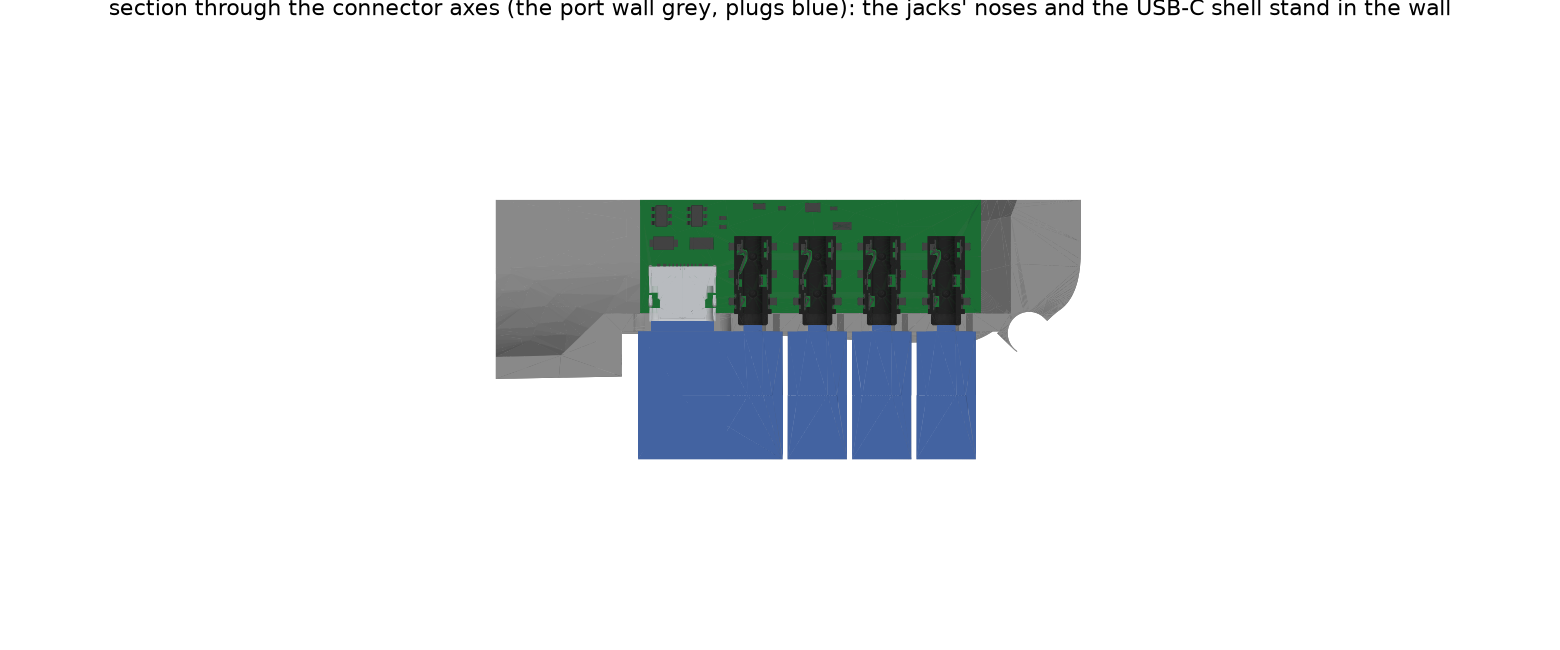
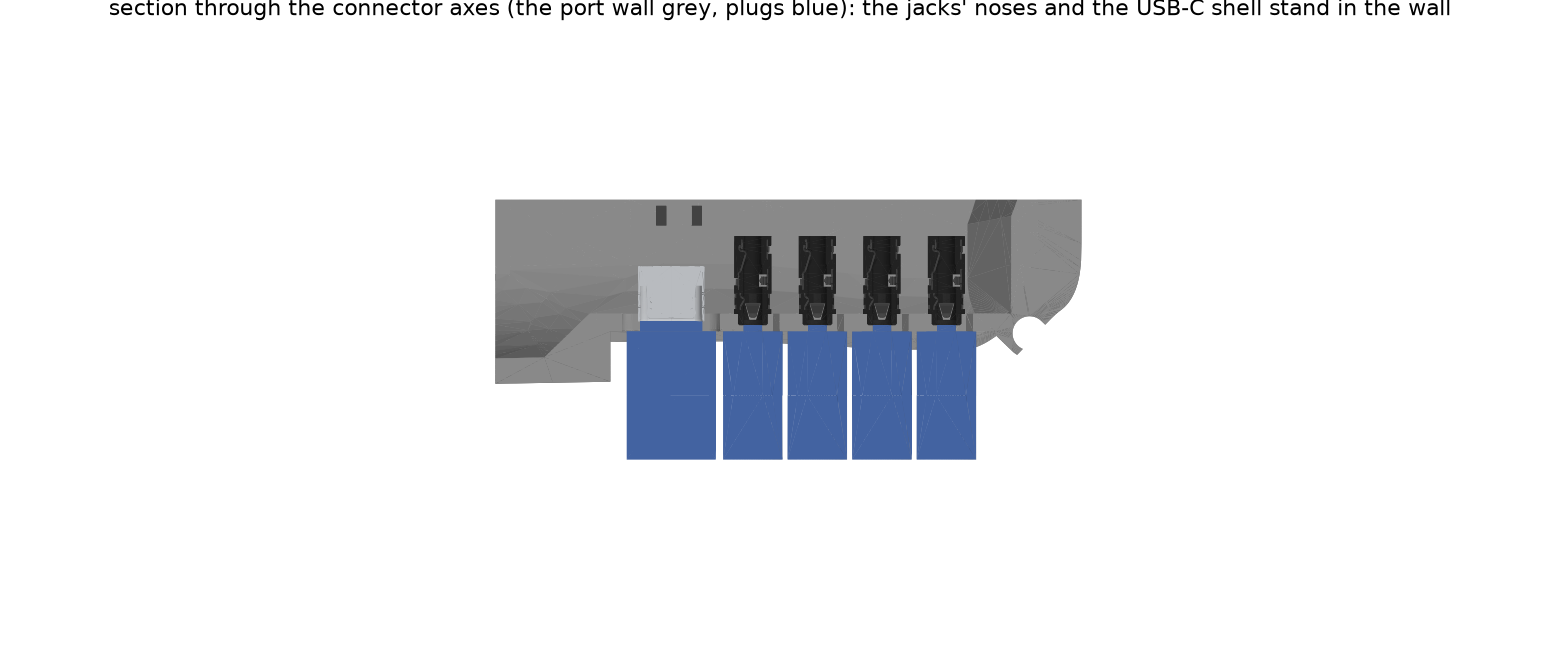
Board turned over in the mech: SMT face down on the standoffs, parts hanging under it, tails up (the earlier model was mirrored); connector axes unchanged at z = -28.6, floor unchanged; reset-button hole and two sensor louvres through the pan floor; right-angle header plugs checked against the duct;

Changed region(s): [[0.3077, 0.3077, 0.6769, 0.7077]]

diff --git a/src/minimeat/mech/params.py b/src/minimeat/mech/params.py
@@ -58,18 +58,28 @@ class Servo:
 @dataclass(frozen=True)
 class Pcb:
     """Provisional envelope; the board outline becomes the contract at .1.6 / .3.6. The board lies flat in the
-    pan under the duct, parts up; its -y long edge carries the connectors (see envelope.py)."""
+    pan under the duct, turned over: the SMT face (F.Cu) down on the standoffs with the parts hanging under it, the
+    back (B.Cu, the through-hole tails) up toward the duct. Board frame: x toward the egg, y as the KiCad sheet's (the
+    connector edge at -y), z up. That is the real board: seen from above with its parts up, the sheet's connectors
+    are at the top and its USB-C at the left; turned over about x they are at -y and the USB-C stays at -x. Its -y
+    long edge carries the connectors (see envelope.py)."""
 
     x_len: float = 47.5  # along the flow axis: 46 for the USB-C and four jacks side by side (45), plus usb_end
     usb_end: float = 1.5  # the board's extra length past the USB-C (x_len includes it): moves the USB-C out of the first jack's 0.2 mm web (hw/tools/usb_shift.py)
     y_len: float = 54.0  # across
     t: float = 1.6
     hole_d: float = 2.7  # [est] M2.5
+    standoff_d: float = 5.5  # the pan's columns under the holes
     # three mounting holes, board frame (centre origin, y toward +y): the corners are taken by the connector row and the
     # module, so the screws sit where the layout left room; the connector row is held by the port wall
     holes: tuple[tuple[float, float], ...] = ((-11.65, 1.7), (20.75, 2.8), (20.75, 22.6))
-    top_h: float = 11.0  # [est] tallest part above the board (headers; the jacks are 3.2, the module 3.2)
-    bottom_h: float = 2.5  # [est] through-hole lead clearance: the standoff height
+    axis_z: float = -28.6  # the connector axes' height: the port row, wall and bay, as before the board was turned over
+    under_h: float = 6.4  # the tallest thing under the board: the right-angle KK housings, 6.36 (STEP); the jacks are 3.7, the module 3.3
+    floor_gap: float = 0.9  # under_h to the pan floor
+    over_h: float = 2.5  # the through-hole tails (2 mm) and their solder above the board's back face
+    kk: tuple[tuple[float, float], ...] = ((8.78, 10.6), (18.91, 8.1))  # the fan and servo plugs on the right-angle KK headers at the rear edge: y centre, width (J6 4 pins, J7 3)
+    kk_plug_len: float = 9.0  # [est] the plug's housing past the header's front face (the pins go 6.7 into it); the cable leaves along -x, low, under the duct's fan transition
+    edge_band: tuple[float, float] = (23.5, 3.7)  # beyond this y the pan floor curves up: only SMT parts (3.7: the tallest) hang under the board there
     corner_r: float = 2.0
     edge_trim: float = 1.75  # the board's connector edge is trimmed this far back from the frame's -y edge (hw/tools/connector_edge.py)
     # so the connectors reach into the port wall: the jacks' fronts are 0.1 mm inside the frame's edge, the USB-C's shell front 0.6
@@ -92,9 +102,10 @@ class Pcb:
     # the status LED and the button on the +y edge (the side away from the ports), both facing +y
     led_x: float = 15.75  # board frame; Lite-On LTST-S220KGKT side-view green, C160469 (2.2 x 1 mm)
     btn_x: float = 15.05  # ALPS SKRPACE010 top-push tact switch, C139797 (4.2 x 3.2 x 2.5 mm): inside, pressed with the case open
-    led_z: float = 0.5  # emitter and actuator heights above the board's top face [est]
+    led_z: float = 0.5  # emitter and actuator heights, under the board's parts face [est]
     btn_z: float = 1.0
-    sensor: tuple[float, float] = (-18.85, 24.8)  # ambient sensor TMP117, board frame: top side (single-sided assembly), rear corner, at the +y flank's louvres
+    sensor: tuple[float, float] = (-18.85, 24.8)  # ambient sensor TMP117, board frame: on the parts face (single-sided assembly), facing down at the louvres in the pan floor, rear corner
+    btn_y: float = 4.8  # the reset button (SW1) faces down: a hole in the pan floor under it takes a paper clip
 
 
 @dataclass(frozen=True)
@@ -240,8 +251,10 @@ class Shell:
     bay_z: tuple[float, float] = (-34.0, -21.0)  # the bay's floor and ceiling (the eave)
     bay_x: tuple[float, float] = (-74.5, -19.0)
     bay_wall_t: float = 2.4  # the port wall
-    vent_slots: tuple[tuple[float, float], ...] = ((-71.0, -63.0),)  # x ranges of the ambient louvres, +y wall, at the TMP117 on the board's top
-    vent_z: float = -29.0  # just above the board's top face: outside air reaches the sensor on top
+    vent_slots: tuple[tuple[float, float], ...] = ((-71.0, -63.0),)  # x ranges of the ambient louvres through the pan floor, under the TMP117
+    vent_dy: float = 1.5  # two slots, this far either side of the sensor
+    vent_w: float = 1.4
+    reset_d: float = 3.2  # the reset hole in the pan floor
     pipe_d: float = 1.75  # the LED's light pipe: a piece of clear 1.75 mm filament, glued flush in a 1.9 mm hole
 
 

diff --git a/src/minimeat/mech/mock.py b/src/minimeat/mech/mock.py
@@ -7,7 +7,7 @@ from build123d import Axis, Pos, Rot, Torus, import_step
 
 from . import geom as G
 from .geom import g
-from .parts import _arm, box, d_bore, xcyl, ycyl, zcyl
+from .parts import _arm, box, d_bore, teardrop_z, xcyl, ycyl, zcyl
 from .params import P
 
 
@@ -114,13 +114,22 @@ def oring():
 
 
 def pcb():
-    """The board, flat in the pan, plus a keep-out box for the tallest parts above it. The connectors on the -y edge
-    hang past the board's trimmed edge into the port wall (their housings are `connectors()`)."""
+    """The board, flat in the pan, turned over, plus a keep-out for what hangs under it (the right-angle headers are the
+    tallest) and for the tails above it. The connectors on the -y edge hang past the board's trimmed edge into the port
+    wall (their housings are `connectors()`)."""
     p = P.pcb
     b = box(G.g.board_x0, G.g.board_x1, G.PCB_EDGE_Y, p.y_len / 2, G.PCB_Z0, G.PCB_Z1)
-    xs = G.g.board_x0 + p.usb_end  # the last usb_end, at the USB-C, holds nothing taller than it
-    top = box(xs, G.g.board_x1, G.PCB_EDGE_Y, p.y_len / 2, G.PCB_Z1, G.PCB_Z1 + p.top_h)
-    top += box(G.g.board_x0, xs, G.PCB_EDGE_Y, p.y_len / 2, G.PCB_Z1, G.PCB_Z1 + p.usb_h + 1.0)
+    top = box(G.g.board_x0, G.g.board_x1, G.PCB_EDGE_Y, p.y_len / 2, G.PCB_Z1, G.PCB_Z1 + p.over_h)
+    ye, he = p.edge_band
+    xf = G.g.board_x1 - 1.5  # the pan's belly rises under the board's front edge: parts there are low
+    under = box(G.g.board_x0, xf, -ye, ye, G.PCB_Z0 - p.under_h, G.PCB_Z0)
+    under += box(G.g.board_x0, G.g.board_x1, G.PCB_EDGE_Y, -ye, G.PCB_Z0 - he, G.PCB_Z0)
+    under += box(G.g.board_x0, G.g.board_x1, ye, p.y_len / 2, G.PCB_Z0 - he, G.PCB_Z0)
+    under += box(xf, G.g.board_x1, -ye, ye, G.PCB_Z0 - he, G.PCB_Z0)
+    xc = (G.g.board_x0 + G.g.board_x1) / 2
+    for hx, hy in p.holes:  # the standoffs stand there
+        under -= teardrop_z(xc + hx, hy, p.standoff_d / 2 + 0.3, G.PCB_Z0 - p.under_h - 1.0, G.PCB_Z0 + 0.1, toward=-1)
+    top += under
     return b, top
 
 
@@ -132,23 +141,27 @@ def connectors():
     y0 = G.PCB_Y0
     out = None
     for jx in p.jack_xs:
-        j = box(xc + jx - p.jack_w / 2, xc + jx + p.jack_w / 2, y0 + p.jack_face, G.PCB_EDGE_Y, G.PCB_Z1, G.PCB_Z1 + p.jack_h)
+        j = box(xc + jx - p.jack_w / 2, xc + jx + p.jack_w / 2, y0 + p.jack_face, G.PCB_EDGE_Y, G.PCB_Z0 - p.jack_h, G.PCB_Z0)
         out = j if out is None else out + j
-    out += box(xc + p.usb_x - p.usb_w / 2, xc + p.usb_x + p.usb_w / 2, y0 + p.usb_face, G.PCB_EDGE_Y, G.PCB_Z1 + 0.3, G.PCB_Z1 + p.usb_h)
+    out += box(xc + p.usb_x - p.usb_w / 2, xc + p.usb_x + p.usb_w / 2, y0 + p.usb_face, G.PCB_EDGE_Y, G.PCB_Z0 - p.usb_h, G.PCB_Z0 - 0.3)
     return out
 
 
 def plugs():
     """The probe plugs and the USB-C plug in their ports: overmolds outside the port wall, barrels through it to the
-    connectors' faces (not into them)."""
+    connectors' faces (not into them); and the fan and servo plugs on the rear headers."""
     p = P.pcb
     xc = (G.g.board_x0 + G.g.board_x1) / 2
     out = None
     y_face = G.PORT_WALL_Y - P.shell.bay_wall_t
     for jx in p.jack_xs:
-        barrel = ycyl(1.25, y_face - 0.5, G.PCB_Y0 + p.jack_face, xc + jx, G.PCB_Z1 + p.jack_h / 2)
-        mold = ycyl(p.plug_d / 2, y_face - 18.0, y_face, xc + jx, G.PCB_Z1 + p.jack_h / 2)
+        barrel = ycyl(1.25, y_face - 0.5, G.PCB_Y0 + p.jack_face, xc + jx, G.PCB_Z0 - p.jack_h / 2)
+        mold = ycyl(p.plug_d / 2, y_face - 18.0, y_face, xc + jx, G.PCB_Z0 - p.jack_h / 2)
         out = barrel + mold if out is None else out + barrel + mold
-    usb = box(xc + p.usb_x - 4.2, xc + p.usb_x + 4.2, y_face - 0.1, G.PCB_Y0 + p.usb_face, G.PCB_Z1 + 0.3, G.PCB_Z1 + p.usb_h)
-    usb += box(xc + p.usb_x - 6.0, xc + p.usb_x + 6.0, y_face - 18.0, y_face, G.PCB_Z1 - 1.5, G.PCB_Z1 + p.usb_h + 1.5)
-    return out + usb
+    usb = box(xc + p.usb_x - 4.2, xc + p.usb_x + 4.2, y_face - 0.1, G.PCB_Y0 + p.usb_face, G.PCB_Z0 - p.usb_h, G.PCB_Z0 - 0.3)
+    usb += box(xc + p.usb_x - 6.0, xc + p.usb_x + 6.0, y_face - 18.0, y_face, G.PCB_Z0 - p.usb_h - 1.5, G.PCB_Z0 + 1.5)
+    out += usb
+    xf = G.g.board_x0 - 0.19  # the header housings' front faces, a little past the board's rear edge
+    for yc, w in p.kk:  # the fan and servo plugs lie under the board, entering toward the rear
+        out += box(xf - p.kk_plug_len, xf, yc - w / 2, yc + w / 2, G.PCB_Z0 - p.under_h, G.PCB_Z0 - 0.1)
+    return out

diff --git a/tests/test_skin.py b/tests/test_skin.py
@@ -6,7 +6,7 @@ import pytest
 from minimeat.mech import assembly as A, shell as K
 from minimeat.mech import geom as G
 from minimeat.mech.params import P
-from minimeat.mech.parts import box, ycyl
+from minimeat.mech.parts import box, ycyl, zcyl
 from minimeat.mech.printing import overhangs, print_pose
 
 
@@ -60,13 +60,13 @@ def test_ports_line_up_with_the_board(shells):
     pan = shells["pan"]
     for jx in p.jack_xs:
         # the plug's barrel reaches the jack's front, past the wall's inner face
-        probe = ycyl(p.jack_hole_d / 2 - 0.1, K.PORT_FACE_Y - 3.0, G.PCB_Y0 + p.jack_face + 0.1, K.PCB_XC + jx, G.PCB_Z1 + p.jack_h / 2)
+        probe = ycyl(p.jack_hole_d / 2 - 0.1, K.PORT_FACE_Y - 3.0, G.PCB_Y0 + p.jack_face + 0.1, K.PCB_XC + jx, G.PCB_Z0 - p.jack_h / 2)
         assert A.overlap(probe, pan) < 0.5
         # and the jack's housing stands in the wall through its opening
         housing = box(K.PCB_XC + jx - p.jack_w / 2, K.PCB_XC + jx + p.jack_w / 2, G.PCB_Y0 + p.jack_face, G.PORT_WALL_Y + 0.05,
-                      G.PCB_Z1, G.PCB_Z1 + p.jack_h)
+                      G.PCB_Z0 - p.jack_h, G.PCB_Z0)
         assert A.overlap(housing, pan) < 0.5
-    zu = G.PCB_Z1 + p.usb_h / 2
+    zu = G.PCB_Z0 - p.usb_h / 2
     probe = box(K.PCB_XC + p.usb_x - p.usb_open_w / 2 + 1.6, K.PCB_XC + p.usb_x + p.usb_open_w / 2 - 1.6,
                 K.PORT_FACE_Y - 3.0, G.PCB_Y0 + p.usb_face + 0.1, zu - p.usb_open_h / 2 + 0.1, zu + p.usb_open_h / 2 - 0.1)
     assert A.overlap(probe, pan) < 0.5
@@ -96,7 +96,7 @@ def test_no_web_thinner_than_the_printers_minimum(shells):
     xj = K.PCB_XC + p.jack_xs[0] - p.jack_open_w / 2
     assert xj - xu >= 1.2  # the web is a printable wall
     z0, z1 = p.jack_open_z
-    web = box(xu + 0.05, xj - 0.05, K.PORT_FACE_Y, G.PORT_WALL_Y, G.PCB_Z1 + z0, G.PCB_Z1 + z1)
+    web = box(xu + 0.05, xj - 0.05, K.PORT_FACE_Y, G.PORT_WALL_Y, G.PCB_Z0 - z1, G.PCB_Z0 - z0)
     assert A.overlap(web, shells["pan"]) > 0.99 * web.volume  # the pan is solid there: no shared slot
 
 
@@ -152,8 +152,23 @@ def test_led_pipe_passes_the_flank(shells):
     p = P.pcb
     pan = shells["pan"]
     xl = K.PCB_XC + p.led_x
-    zl = G.PCB_Z1 + p.led_z
+    zl = G.PCB_Z0 - p.led_z
     pipe = ycyl(P.shell.pipe_d / 2, p.y_len / 2 + 0.6, 45.0, xl, zl)
     assert A.overlap(pipe, pan) < 0.5  # a clear way through
     lo, hi = P.shell.vent_slots[0]
     assert not (lo - 1.5 < xl < hi + 1.5)
+
+
+def test_reset_hole_and_louvres_open_the_floor_under_the_parts(shells):
+    """The reset button and the sensor face the pan floor: a paper clip's way up to the button, and the louvre slots, are open."""
+    p, pan = P.pcb, shells["pan"]
+    clip = zcyl(1.0, G.BELLY_Z - 5.0, G.PCB_Z0 - p.btn_z - 0.5, K.PCB_XC + p.btn_x, p.btn_y)  # a 2 mm wire, up to the actuator
+    assert A.overlap(clip, pan) < 0.01
+    assert P.shell.reset_d >= 3.0
+    for x0, x1 in P.shell.vent_slots:
+        for dy in (-P.shell.vent_dy, P.shell.vent_dy):
+            slot = box(x0 + 0.1, x1 - 0.1, p.sensor[1] + dy - 0.5, p.sensor[1] + dy + 0.5, G.BELLY_Z - 0.5, G.FLOOR_Z + 0.5)
+            assert A.overlap(slot, pan) < 0.01
+    # the floor is otherwise closed beside them
+    solid = box(P.shell.vent_slots[0][0] + 0.1, P.shell.vent_slots[0][1] - 0.1, p.sensor[1] - 0.5, p.sensor[1] + 0.5, G.BELLY_Z + 1.1, G.FLOOR_Z - 0.2)  # the rib between the slots
+    assert A.overlap(solid, pan) > 0.5 * solid.volume

diff --git a/src/minimeat/mech/shell.py b/src/minimeat/mech/shell.py
@@ -163,13 +163,19 @@ def grille_cut():
 
 
 def vent_cut():
-    """The ambient louvres in the pan's +y flank, under the board's sensor corner: slots along x, tilted so
-    they descend outward."""
+    """The ambient louvres through the pan's floor under the board's sensor (it faces down, a few mm above): two
+    slots along x, straight through (standing on the rear face the wall is vertical and a 1.4 mm slot bridges)."""
     cut = None
     for x0, x1 in S.vent_slots:
-        s = Pos((x0 + x1) / 2, 30.0, S.vent_z) * Rot(-44, 0, 0) * Box(x1 - x0, 20.0, 1.4)
-        cut = s if cut is None else cut + s
+        for dy in (-S.vent_dy, S.vent_dy):
+            s = box(x0, x1, P.pcb.sensor[1] + dy - S.vent_w / 2, P.pcb.sensor[1] + dy + S.vent_w / 2, G.BELLY_Z - 1.0, G.FLOOR_Z + 2.0)
+            cut = s if cut is None else cut + s
     return cut
+
+
+def reset_cut():
+    """The reset button faces the floor: a hole under it for a paper clip."""
+    return zcyl(S.reset_d / 2, G.BELLY_Z - 1.0, G.FLOOR_Z + 1.0, PCB_XC + P.pcb.btn_x, P.pcb.btn_y)
 
 
 def indicator_cuts():
@@ -177,7 +183,7 @@ def indicator_cuts():
     pointing +x so it prints standing on the rear face. The button is inside, under the hood (the case opens)."""
     p = P.pcb
     y0 = p.y_len / 2
-    zl = G.PCB_Z1 + p.led_z
+    zl = G.PCB_Z0 - p.led_z
     xl = PCB_XC + p.led_x
     r = S.pipe_d / 2 + 0.075
     k = r * math.sqrt(0.5)
@@ -204,17 +210,17 @@ def port_openings():
     teardrops pointed +x: they print standing on the rear face."""
     p = P.pcb
     y0, y1 = PORT_FACE_Y - 1.0, G.PORT_WALL_Y + 1.0
-    zu = G.PCB_Z1 + p.usb_h / 2
+    zu = G.PCB_Z0 - p.usb_h / 2
     cut = box(PCB_XC + p.usb_x - p.usb_open_w / 2, PCB_XC + p.usb_x + p.usb_open_w / 2, y0, y1, zu - p.usb_open_h / 2, zu + p.usb_open_h / 2)
     cut = cut.fillet(1.5, cut.edges().filter_by(Axis.Y))
-    zj = G.PCB_Z1 + p.jack_h / 2
+    zj = G.PCB_Z0 - p.jack_h / 2
     r = p.jack_hole_d / 2
     k = r * math.sqrt(0.5)
     for jx in p.jack_xs:
         x = PCB_XC + jx
         cut += ycyl(r, y0, y1, x, zj) + prism_xz([(x + k, zj - k), (x + k * (1 + KS), zj), (x + k, zj + k)], y0, y1)
         z0, z1 = p.jack_open_z
-        cut += box(x - p.jack_open_w / 2, x + p.jack_open_w / 2, y0, y1, G.PCB_Z1 + z0, G.PCB_Z1 + z1)
+        cut += box(x - p.jack_open_w / 2, x + p.jack_open_w / 2, y0, y1, G.PCB_Z0 - z1, G.PCB_Z0 - z0)
     return cut
 
 
@@ -307,7 +313,7 @@ def standoffs():
     out = None
     for hx, hy in p.holes:
         x, y = PCB_XC + hx, hy
-        c = teardrop_z(x, y, 2.75, G.FLOOR_Z - 2.0, G.PCB_Z0, toward=-1)
+        c = teardrop_z(x, y, p.standoff_d / 2, G.FLOOR_Z - 2.0, G.PCB_Z0, toward=-1)
         c -= teardrop_z(x, y, 1.05, G.PCB_Z0 - 6.0, G.PCB_Z0 + 0.1, toward=1)
         out = c if out is None else out + c
     return out
@@ -377,6 +383,7 @@ def pan():
     p -= port_openings()
     p += drip_lip() & o
     p -= vent_cut()
+    p -= reset_cut()
     p -= indicator_cuts()
     p += _half(fan_shims(), False) & o
     p += _half(rear_bumps(), False)

diff --git a/tests/test_mech.py b/tests/test_mech.py
@@ -46,7 +46,7 @@ def test_linkage_is_a_parallelogram():
     assert abs(A.coupler_shift(90).position.Y + L.arm_r) < 1e-9 and abs(A.coupler_shift(90).position.X - L.arm_r) < 1e-9
     assert G.CRANK_Z0 > G.g.duct_r  # the linkage plane is over the duct's crown
     assert G.COUPLER_Z1 + L.pin_head_h < P.shell.roof_in
-    assert G.SERVO_Z0 > G.PCB_Z1 + P.pcb.top_h + 2.0  # the servo clears the board's keep-out
+    assert G.SERVO_Z0 > G.PCB_Z1 + P.pcb.over_h + 2.0  # the servo clears the board's keep-out
 
 
 def test_rod_stands_above_the_crank_and_under_the_bar():
@@ -75,15 +75,15 @@ def test_shelf_pilots_are_under_the_servos_screw_holes():
 
 
 def test_board_lies_under_the_straight_duct():
-    """The board sits beside the r = 18.2 straight section (the parts one mm into the cone and the flare), with its
-    keep-out one mm under the duct and the cone no steeper than 26 degrees. The USB-C's end, past the last part,
-    goes further in: only the USB-C stands there, and it clears the cone."""
+    """The board (turned over: its back and the tails' keep-out up, the parts under it) sits beside the r = 18.2
+    straight section, its rear edge a little into the cone, the keep-out one mm under the duct everywhere
+    including at that edge, and the cone no steeper than 26 degrees."""
     assert G.g.straight_x0 <= G.g.board_x0 + P.layout.straight_over + 1e-9
     assert P.layout.straight_over == P.pcb.usb_end + 1.0
     cone_r = G.g.duct_r + 0.5 * (G.g.straight_x0 - G.g.board_x0)  # the cone's outer radius at the board's rear edge
-    assert G.PCB_Z1 + P.pcb.usb_h + 1.0 <= -cone_r + 1e-9
+    assert G.PCB_Z1 + P.pcb.over_h + 1.0 <= -cone_r + 1e-9
     assert G.g.board_x1 <= G.g.socket_x0 - 4.0
-    assert G.PCB_Z1 + P.pcb.top_h <= -G.g.duct_r - 1.0 + 1e-9
+    assert G.PCB_Z1 + P.pcb.over_h <= -G.g.duct_r - 1.0 + 1e-9
     assert analysis.cone_half_angle() <= 26.1
 
 

diff --git a/src/minimeat/mech/board3d.py b/src/minimeat/mech/board3d.py
@@ -6,7 +6,7 @@ import shutil
 import subprocess
 from pathlib import Path
 
-from build123d import Compound, Plane, import_step, mirror
+from build123d import Axis, Compound, import_step
 
 from . import geom as G
 from .params import P
@@ -35,11 +35,14 @@ def export_board(out: Path) -> Path | None:
 
 
 def placed(step: Path):
-    """The board in the assembly frame: KiCad's export has y up where the sheet has y down, the mech frame follows the
-    sheet (connectors on -y), so mirror across y = 0, then the board's underside to PCB_Z0 and its middle to the pan."""
-    s = mirror(import_step(step), Plane.XZ)
+    """The board in the assembly frame. KiCad's export is the real board seen from above, parts up, with y up and the
+    connectors at +y; the board lies in the pan turned over about x (parts down, connectors toward -y, the USB-C still
+    at the rear). A mirror here would make a board that cannot be built. Its parts face goes to PCB_Z0 and its middle
+    to the pan."""
+    s = import_step(step).rotate(Axis.X, 180)
+    sub = max(s.solids(), key=lambda so: so.bounding_box().size.X * so.bounding_box().size.Y).bounding_box()
     xc = (G.g.board_x0 + G.g.board_x1) / 2
-    s = s.moved(__import__("build123d").Location((xc, 0.0, G.PCB_Z0)))
+    s = s.moved(__import__("build123d").Location((xc, 0.0, G.PCB_Z0 - sub.min.Z)))
     return frozen(s)
 
 

diff --git a/src/minimeat/mech/envelope.py b/src/minimeat/mech/envelope.py
@@ -25,12 +25,12 @@ def envelope():
         },
         "indicators": {
             "edge": "+y",
-            "led": {"x": p.led_x, "z_above_board": p.led_z, "part": "LTST-S220KGKT side-view, facing +y"},
-            "button": {"x": p.btn_x, "z_above_board": p.btn_z, "part": "SKRPACE010 top-push, inside the case (open it to press)"},
+            "led": {"x": p.led_x, "z_below_board": p.led_z, "part": "LTST-S220KGKT side-view, facing +y"},
+            "button": {"x": p.btn_x, "z_below_board": p.btn_z, "part": "SKRPACE010 top-push, facing down: a paper-clip hole in the pan floor"},
         },
-        "ambient_sensor": {"side": "top", "x": p.sensor[0], "y": p.sensor[1], "note": "top side at the rear +y corner, no copper under its thermal pad, at the flank louvres"},
-        "height_above_board": p.top_h,
-        "clearance_below_board": p.bottom_h,
+        "ambient_sensor": {"side": "top", "x": p.sensor[0], "y": p.sensor[1], "note": "parts face (down) at the rear +y corner, no copper under its thermal pad, at the flank louvres"},
+        "height_under_board": p.under_h,
+        "height_above_board": p.over_h,
         "note": "provisional until the ICD (.1.2) and the schematic (.3.x) fix the outline",
     }
 

diff --git a/src/minimeat/mech/geom.py b/src/minimeat/mech/geom.py
@@ -30,10 +30,10 @@ REAR_IN_X = FAN_X0 - P.layout.rear_gap  # the rear wall's inner face
 REAR_X = REAR_IN_X - P.shell.wall  # the rear face
 
 # the board, flat in the pan: standoffs on the pan floor, parts up toward the duct
-FLOOR_Z = -g.duct_r - 1.0 - P.pcb.top_h - P.pcb.t - P.pcb.bottom_h  # inner floor: the belly
+PCB_Z0 = P.pcb.axis_z + P.pcb.jack_h / 2  # the board's parts face, down on the standoffs; the parts hang under it
+PCB_Z1 = PCB_Z0 + P.pcb.t  # its back, up toward the duct
+FLOOR_Z = PCB_Z0 - P.pcb.under_h - P.pcb.floor_gap  # inner floor: the belly
 BELLY_Z = FLOOR_Z - P.shell.wall
-PCB_Z0 = FLOOR_Z + P.pcb.bottom_h
-PCB_Z1 = PCB_Z0 + P.pcb.t
 PCB_Y0 = -P.pcb.y_len / 2  # the connector edge
 PCB_EDGE_Y = PCB_Y0 + P.pcb.edge_trim  # the board's actual connector edge
 PORT_WALL_Y = PCB_EDGE_Y - P.pcb.edge_gap  # inner face of the port wall: the connectors reach into it

diff --git a/src/minimeat/mech/views.py b/src/minimeat/mech/views.py
@@ -78,7 +78,7 @@ def main():
         render([(pan, "#8d8d8d")] + board_items(pieces) + inner, out / "assembled.png", view=(52, -62), size=(11, 8), max_edge=12.0,
                title="assembled, hood off, chassis translucent: the real board in the pan under the duct")
         # a horizontal section through the connector axes, from above: the housings standing in the port wall
-        zj = G.PCB_Z1 + P.pcb.jack_h / 2
+        zj = G.PCB_Z0 - P.pcb.jack_h / 2
         keep = box(-90, 20, -45, -10, G.PCB_Z0 - 8, zj)
         render([(pan & keep, "#9a9a9a")] + board_items(pieces, keep) + [(A.mock.plugs() & keep, "#4b6fb5")],
                out / "ports.png", view=(90, -90), size=(12, 5), tight=True, max_edge=12.0,

diff --git a/docs/mech.md b/docs/mech.md
@@ -48,10 +48,10 @@ The full list of what to buy, with quantities for five units, is `docs/ordering.
 
 ## Board and ports
 
-- The board (47.5 × 54 × 1.6, `uv run mech-envelope` for the contract) sits on three Ø5.5 standoffs on the pan floor at its mounting holes (the corners are taken by the connector row and the module; the connector row is held by the port wall). The connector edge is trimmed back 1.75 mm (the sheet frame stays 54 mm; the board is 46 × 52.25, square corners on that edge), so the connectors hang past it, 2.5 mm up, parts up toward the duct: board at z = -31.8 to -30.2, keep-out to -19.2, duct bottom at -18.2. In x it spans -72.0 to -24.5: the parts start at -70.5, 1 mm into the cone's start, under the keep-out, and the last 1.5 mm (`Pcb.usb_end`, past the USB-C's first-jack web; below) goes 2.5 mm into the cone, where only the USB-C, 3.3 tall, stands (a test checks its clearance under the cone); the straight section is sized by it.
+- The board (47.5 × 54 × 1.6, `uv run mech-envelope` for the contract) sits on three Ø5.5 standoffs on the pan floor at its mounting holes (the corners are taken by the connector row and the module; the connector row is held by the port wall). The connector edge is trimmed back 1.75 mm (the sheet frame stays 54 mm; the board is 46 × 52.25, square corners on that edge), so the connectors hang past it. **The board is turned over**: its SMT face (F.Cu) is down on the standoffs at z = -27.0 with the parts hanging under it, and its back (B.Cu) faces the duct at z = -25.4 with only the through-hole tails (2 mm) above it, so the keep-out above is -22.9 against the duct's bottom at -18.2. The connector axes stay at z = -28.6 (the jacks hang 1.6 mm under the face), so the port wall and the bay did not move. Under the board: 7.3 mm to the pan floor (z = -34.3, unchanged) for the right-angle KK headers (6.36 tall, J6 and J7, the plugs entering toward the rear edge) and the SMT parts (3.7 at most). Turned over about x, the real board has its connectors at -y and its USB-C at -x, which is the sheet's own x and y: an earlier model mirrored it, with the parts up. In x it spans -72.0 to -24.5: the parts start at -70.5, 1 mm into the cone's start, and the last 1.5 mm (`Pcb.usb_end`, past the USB-C's first-jack web; below) goes 2.5 mm into the cone, which the thin top side clears; the straight section is sized by it.
 - Connectors on the -y long edge, reaching into the port wall: the jacks' fronts are 0.1 mm inside the frame's edge and the USB-C's shell front 0.6 mm, 1.65 and 1.15 mm past the trimmed edge (`hw/tools/connector_edge.py`: 0.5 mm of board edge to the nearest copper), so a plug's barrel travels 0.85 mm past the wall's outer face instead of 2.6 before it enters the jack. The USB-C receptacle the USB-C receptacle (GCT USB4105-GF-A, 9.4 × 3.3) at board x = -18.05 (the rear end) and the four 2.5 mm TRRS jacks (SHOU HAN PJ-242 from ADR 0002: 5 wide, 3.2 tall, 12 mm back from the edge) at -7.05, 1.65, 10.35 and 19.05. The pitch, 8.7 mm, is set by the Ø8 plug overmolds (0.7 mm apart), not the jacks. Both connector axes come out 1.6 mm over the board, so the five openings are one row at z = -28.6. The port wall is the pan's own 2.4 mm wall, its inner face 0.1 mm past the trimmed edge, outer face at y = -27.75: a 13.2 × 7.4 opening for the USB-C overmold (the USB spec's largest is 12.35 × 6.5, cables run bigger; the first jack's opening is 1.7 mm away: the board grew 1.5 mm at the USB-C's end (`hw/tools/usb_shift.py`) to leave a printable wall between them, which had been 0.2 mm and one joined slot) and, for each jack, the Ø5 plug hole joined to a 5.4 × 4.0 rectangle that the jack's housing (5 wide, 3.15 tall plus a 0.45 tab) stands in. The jack holes are teardrops pointed +x so they print.
 - The port bay is the recess that puts the port wall 9.05 mm inside the flank at the eave: x = -74.5 to -19, floor at z = -34 (the belly's round), ceiling at -21. The body's lower round above it is the eave, with a 1 mm drip lip along its edge; the front end wall is 45° in plan (for the print and for a thumb). The end walls are plain: no holes, no scallop. Plugs enter horizontally; the probe cables hang.
-- Ambient sensor: the TMP117 on the board's top side at the rear +y corner (board x = -19.6, y = 24.8; single-sided assembly, so nothing is on the underside), 2 mm in from the +y edge, with no copper under its thermal pad. One 8 × 1.4 louvre through the pan's +y flank at z = -29, just above the board's top face and descending outward, lets outside air in beside it; it is far from the duct, the regulators and the module (`.3.10`).
+- Ambient sensor: the TMP117 on the board's parts face at the rear +y corner (board x = -18.85, y = 24.8; single-sided assembly), 2 mm in from the +y edge, with no copper under its thermal pad. With the board turned over it faces the pan floor, and two 8 × 1.4 slots through the floor under it (y = 23.3 and 26.3) let outside air in; it is far from the duct, the regulators and the module, with the whole board between it and the duct (`.3.10`).
 - Fan and servo leads stay inside: headers on the board, unplugged when the pan comes off.
 
 ## Exterior
@@ -74,10 +74,10 @@ Shell walls 2.8 mm, seven perimeters (the duct's 2.4; the rear wall 3.2, so the 
 
 The box lives outdoors; the target is IPX4 (splashed from any direction, no immersion). Per opening:
 
-- Status LED and button: on the board's +y edge (the -y edge is full). The LED is a side-view Lite-On LTST-S220KGKT facing +y behind a Ø1.9 hole in the pan's flank holding a piece of clear 1.75 mm filament as a light pipe, glued flush: sealed, and the hole is the only break. The button is an ALPS SKRPACE010, a top-push tact switch (2.5 mm tall, 2.55 N): it is inside, on the board, and is pressed with the case open (reset and WiFi provisioning only, so no opening in the wall). Heights above the board (LED 0.5 mm) are estimates until the parts are in hand.
+- Status LED and button: on the board's +y edge (the -y edge is full). The LED is a side-view Lite-On LTST-S220KGKT facing +y behind a Ø1.9 hole in the pan's flank holding a piece of clear 1.75 mm filament as a light pipe, glued flush: sealed, and the hole is the only break. The button is an ALPS SKRPACE010, a top-push tact switch (2.5 mm tall, 2.55 N), facing down: a Ø3.2 hole in the pan floor under it takes a paper clip (reset and WiFi provisioning; the hole is on the underside, facing the ground, and can take a plug). Heights under the board (LED 0.5 mm) are estimates until the parts are in hand.
 - Ports: in the bay, 9.05 mm under the eave with its drip lip, in a vertical wall; the floor is the belly's round, open all along. Silicone caps for USB-C and unused jacks (untethered: the end walls have no holes). A probe plug in a jack is a 2.5 mm barrel in a Ø5 hole beside the housing: not sealed; the jack's own body is the next barrier.
 - Inlet: 44° louvres, blades 4.5 mm long. No straight path to the fan at any angle up to 44° from the horizontal; spray from steeper below gets to the fan's rear face, which the fan tolerates.
-- Ambient louvre: one slot, descending outward, above the board's top face beside the sensor; what gets in meets the board's edge.
+- Ambient louvre: two slots straight through the pan floor under the sensor; what gets in meets the sensor's face, and the board shields it from the duct.
 - Seam: along the flanks the pan's inner half-wall rises 3 mm inside the hood's wall and a 1.4 mm rib from the hood hangs 3 mm inside that: the path turns twice. At the rear wall the pan's inner half rises 1.2 mm behind a 44° face. At the nose the two half-round notches close on the socket with 0.5 mm of play; the collar inside the front ring stops what runs along the socket. The thumbscrew's insert hole is blind on the outside and opens into the bore between the mouth and the O-ring, which drains out of the mouth.
 - Top: the roof crowns and rolls; no flat pocket. The label is on a vertical flank.
 
@@ -103,7 +103,7 @@ Minimum feature 0.8 mm: the louvre blades are 1.1 at the faces, the webs between
 - Heat: the socket is outside the shells; the board is under the straight section, not under the socket. The servo is beside the cone, in the fan's air.
 - Service: the hood comes off upward on four screws from below; the pan brings the board with it; the chassis stays on the tube. The fan comes off the flange from the rear once the chassis is out. The thumbscrew is on the side, not the top.
 - Plugs: the bay is under the body: plugging in is by feel from the side, the overmolds are 0.7 mm apart, and the recess is 7 mm, so a plug with an overmold longer than 18 mm stands proud of the flank.
-- Board: 46 × 54 with the keep-out capped at 11 mm everywhere; the two front corners have under 1 mm to the cone.
+- Board: 47.5 × 54, turned over, 6.4 mm under it (3.7 along the +y edge, where the floor curves up) and 2.5 above; the two front corners have under 1 mm to the cone.
 
 ## Provisional values to confirm
 
